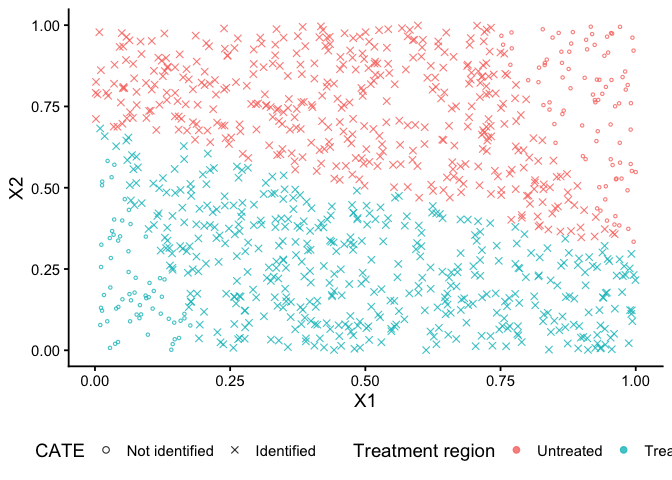
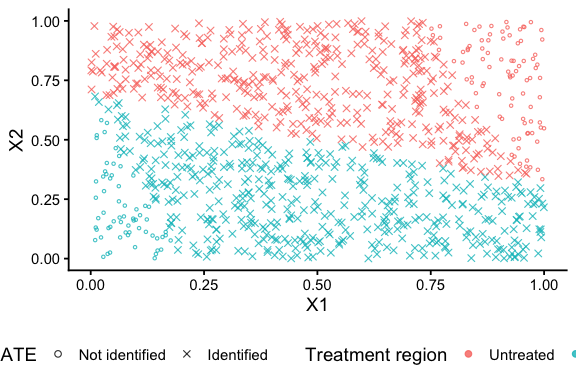
readme

Changed region(s): [[0.0, 0.0, 1.0, 0.8438], [0.5312, 0.9062, 1.0, 0.9688], [0.0, 0.9062, 0.4688, 0.9688]]

diff --git a/README.md b/README.md
@@ -226,14 +226,14 @@ plot_idf_region(
 )
 ```
 
-<img src="man/figures/README-plot-identified-region-1.png" width="100%" />
+<img src="man/figures/README-plot-identified-region-1.png" width="60%" style="display: block; margin: auto;" />
 
 ### Counterfactual policy effect
 
 Consider a counterfactual policy that shifts the treatment frontier
 upward by 0.05:
 
-$$D^{\mathrm{counterfactual}} = \mathbf{1}\left\{X_2 < 0.7 - 0.4X_1 + 0.05\right\}.$$
+$$D^{\mathrm{counterfactual}} = \mathbf{1}\{X_2 < 0.7 - 0.4X_1 + 0.05\}.$$
 
 This policy expands treatment to observations immediately above the
 original frontier.
